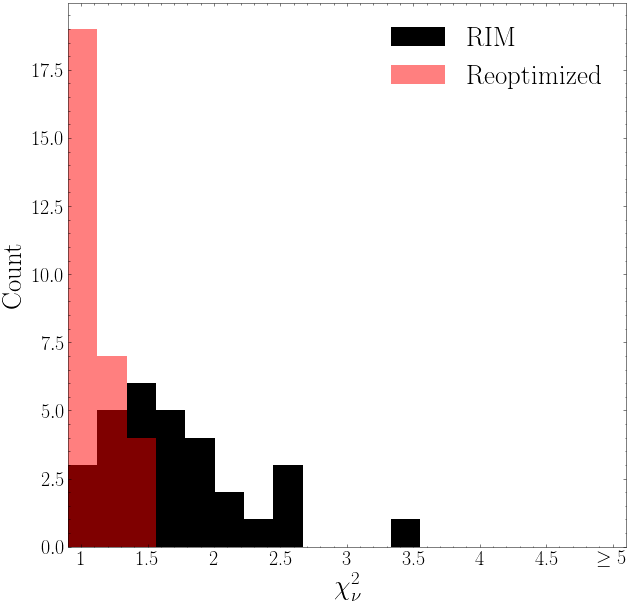
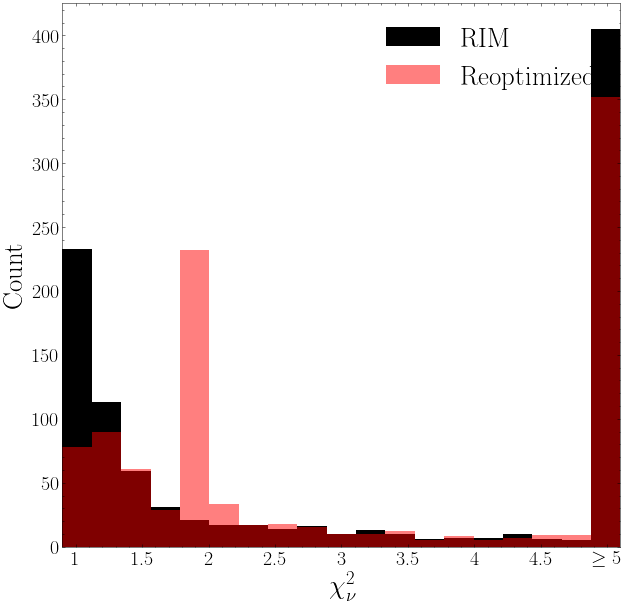
Fixed target of vae optim, sampling is centered on original prediction, not new prediction.
Former-commit-id: a762122afb6de2ec635c2bba0c30b1e953c589cf
Former-commit-id: 34a026b9f1428360ebd08bdd4d75394872d3b334 [formerly cf27754ec21f7b5bb55f5c7b4adabaad2e98ccd3]
Former-commit-id: 08bbc3f7f32950e052ef163fd34126b66b975467

Changed region(s): [[0.0, 0.0, 1.0, 1.0]]

diff --git a/scripts/rim_results_v4_and_optim_posterior_on_vae.py b/scripts/rim_results_v4_and_optim_posterior_on_vae.py
@@ -124,6 +124,10 @@ def distributed_strategy(args):
             source_o = source_pred[-1]
             kappa_o = kappa_pred[-1]
 
+            # Latent code of model predictions
+            z_source, _ = source_vae.encoder(source_o)
+            z_kappa, _ = kappa_vae.encoder(log_10(kappa_o))
+
             # Ground truth latent code for oracle metrics
             z_source_gt, _ = source_vae.encoder(source)
             z_kappa_gt, _ = kappa_vae.encoder(log_10(kappa))
@@ -154,9 +158,6 @@ def distributed_strategy(args):
             # ===================== Optimization ==============================
             for current_step in tqdm(range(STEPS)):
                 # ===================== VAE SAMPLING ==============================
-                # Latent code of model predictions
-                z_source, _ = source_vae.encoder(source_o)
-                z_kappa, _ = kappa_vae.encoder(log_10(kappa_o))
 
                 # L1 distance with ground truth in latent space -- this is changed by an user defined value when using real data
                 # z_source_std = tf.abs(z_source - z_source_gt)
@@ -195,7 +196,7 @@ def distributed_strategy(args):
                 source_mse = source_mse.write(index=current_step, value=tf.reduce_mean((source_o - source) ** 2))
                 kappa_mse = kappa_mse.write(index=current_step, value=tf.reduce_mean((kappa_o - log_10(kappa)) ** 2))
 
-                if abs(chi_sq[-1, 0] - 1) < abs(best[-1, 0] - 1):
+                if abs(2*chi_sq[-1, 0] - 1) < abs(2*best[-1, 0] - 1):
                     source_best = tf.nn.relu(source_o)
                     kappa_best = 10**kappa_o
                     best = chi_sq
